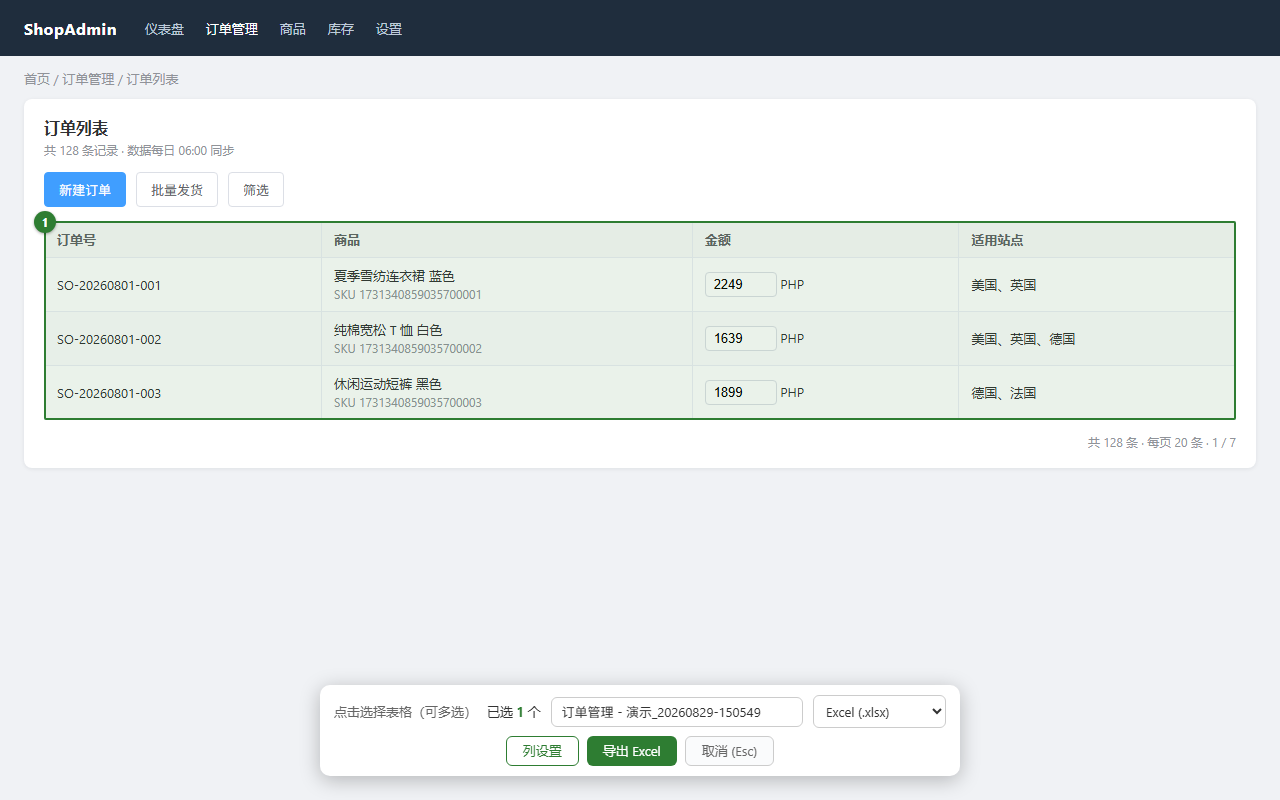
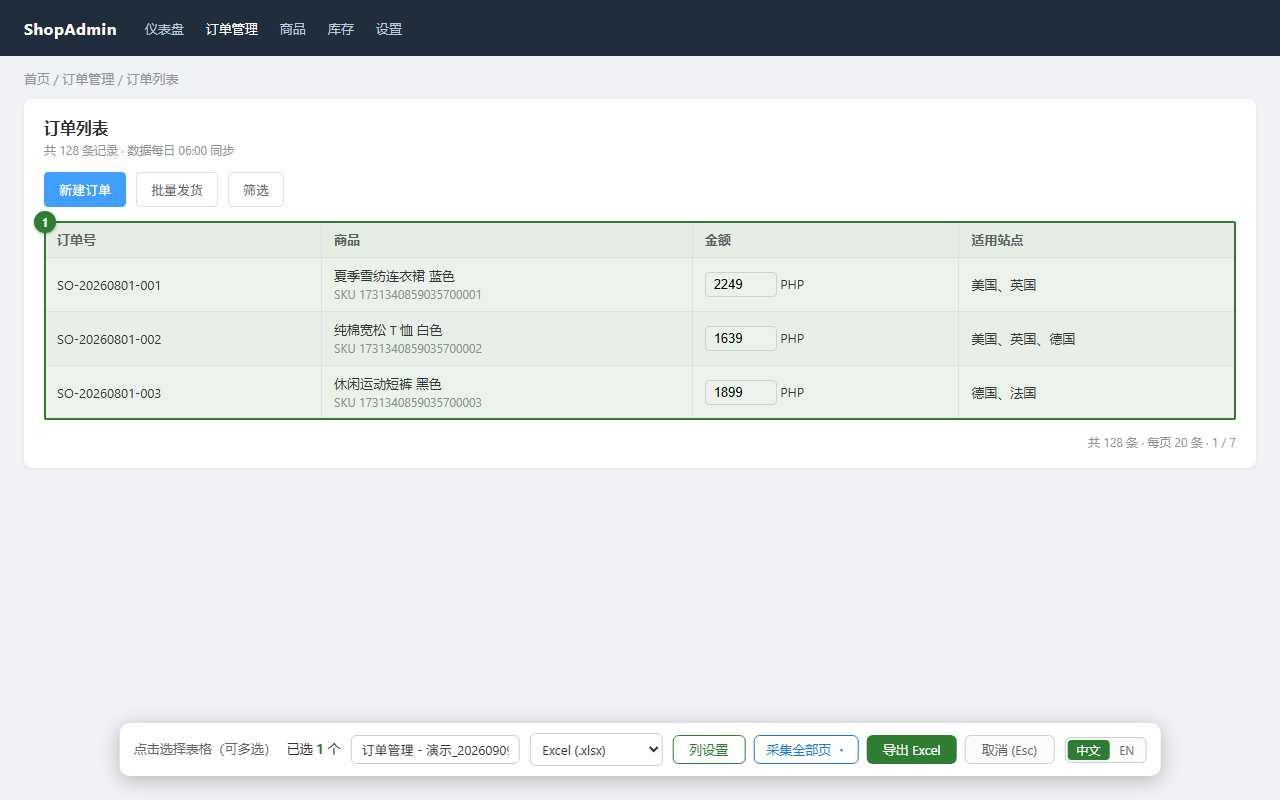
上架截图更新：新增英文版 2 张 + 重生成中文截图（v2.6.1）
- 修复 release/shot-page.html 注入序（补 i18n.js、pagination.js），修正导出按钮选择器防误绑分页面板按钮
- 支持 ?lang=en：经 chrome.i18n 桩（getUILanguage/getMessage 读 en 词表）渲染英文界面截图
- release/gen-shots.mjs：截图清单调整为 3 张中文 + 2 张英文，URL 传入 lang 参数
- 新增 release/screenshots/1-select-en.png、2-panel-en.png，重生成 1-select/2-panel/3-panel-dark 中文截图
- release/review-notes.md：商店素材清单补注中英文双语截图

Changed region(s): [[0.25, 0.875, 0.9062, 1.0], [0.0938, 0.9062, 0.25, 1.0]]

diff --git a/release/shot-page.html b/release/shot-page.html
@@ -76,7 +76,9 @@
 <script>
 /* 截图驱动：注入真实内容脚本并按 ?shot= 场景驱动到目标状态，置 window.__SHOT_READY */
 (async () => {
-  const shot = new URLSearchParams(location.search).get('shot') || 'select';
+  const q = new URLSearchParams(location.search);
+  const shot = q.get('shot') || 'select';
+  const lang = q.get('lang') || 'zh'; // 'zh' | 'en'：英文界面截图
   const sleep = (ms) => new Promise(r => setTimeout(r, ms));
   const waitFor = async (cond, timeout) => {
     const t0 = Date.now();
@@ -84,8 +86,11 @@
     return !!cond();
   };
 
-  /* chrome 桩：storage 内存实现；sendMessage 抛错走 blob 回退（导出成功路径） */
+  /* chrome 桩：storage 内存实现；sendMessage 抛错走 blob 回退（导出成功路径）。
+     lang=en 时补 chrome.i18n（getUILanguage=getMessage 读扩展 en 词表）→ 界面渲染英文；
+     同时持久化偏好 h2x.uiLang='en'，init 会置手动英文，双路径都稳定出英文 */
   const memStore = {};
+  let enCatalog = null; // lang=en 时装载 _locales/en/messages.json
   window.chrome = {
     storage: { local: {
       get: async (k) => {
@@ -99,11 +104,38 @@
     } },
     runtime: { sendMessage: () => { throw new Error('截图环境：走 blob 回退'); } }
   };
+  if (lang === 'en') {
+    memStore['h2x.uiLang'] = 'en'; // 持久化为手动英文（main.js init 生效）
+    enCatalog = await (await fetch('/extension/_locales/en/messages.json')).json();
+    // chrome.i18n 桩：占位符按 placeholders.content 的 $1/$2 序号替换（与 chrome.i18n 语义一致）
+    window.chrome.i18n = {
+      getUILanguage: () => 'en-US',
+      getMessage: (key, subs) => {
+        const e = (enCatalog || {})[key];
+        if (!e || typeof e.message !== 'string') return '';
+        let msg = e.message;
+        const arr = (subs && subs.length) ? subs.map(String) : null;
+        if (arr && e.placeholders) {
+          const byNum = {};
+          for (const name of Object.keys(e.placeholders)) {
+            const m = /^\$(\d+)$/.exec(e.placeholders[name].content || '');
+            if (m) byNum[m[1]] = name;
+          }
+          arr.forEach((s, i) => {
+            const name = byNum[String(i + 1)];
+            if (name) msg = msg.split('$' + name + '$').join(s);
+          });
+        }
+        return msg;
+      }
+    };
+  }
   HTMLAnchorElement.prototype.click = function () { /* 拦截下载，不真实落盘 */ };
   window.requestAnimationFrame = (cb) => setTimeout(() => cb(performance.now()), 16);
 
-  /* 注入内容脚本（依赖序，与 service-worker 一致） */
-  const FILES = ['entry', 'util', 'controls', 'split', 'cell', 'table', 'virtual', 'persist', 'format', 'panel', 'main'];
+  /* 注入内容脚本（依赖序，与 service-worker 一致）：entry → i18n → util → controls
+     → split → cell → table → virtual → pagination → persist → format → panel → main */
+  const FILES = ['entry', 'i18n', 'util', 'controls', 'split', 'cell', 'table', 'virtual', 'pagination', 'persist', 'format', 'panel', 'main'];
   window.__html2xlsx = null;
   try { delete window.__h2x; } catch (e) { window.__h2x = undefined; }
   for (const f of FILES) {
@@ -147,7 +179,7 @@
   } else if (shot === 'export') {
     click(cell);
     await sleep(120);
-    click($('.h2x-primary'));         // 导出 Excel → blob 回退 → 成功 toast
+    click($('.h2x-actions > .h2x-primary')); // 导出 Excel → blob 回退 → 成功 toast（限定工具栏直系子级，防错绑分页面板按钮）
     await waitFor(() => $('.h2x-toast-success'));
     await sleep(120);
     window.__SHOT_READY = true;

diff --git a/release/review-notes.md b/release/review-notes.md
@@ -72,7 +72,7 @@ chrome.storage.local.
 
 - [ ] 开发者账号已注册（$5 一次性费用）
 - [ ] zip 已上传（运行 `.\release\pack.ps1` 生成）
-- [ ] 商店素材：截图 1–5 张（1280×800），见 `release/screenshots/`
+- [ ] 商店素材：截图 1–5 张（1280×800，中文 + `*-en.png` 英文版），见 `release/screenshots/`
 - [ ] 宣传图 440×280（可选）
 - [ ] 商品详情双语已填写（见 `store-listing.md`）
 - [ ] 隐私声明已按上文勾选
